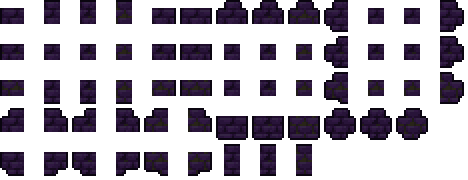
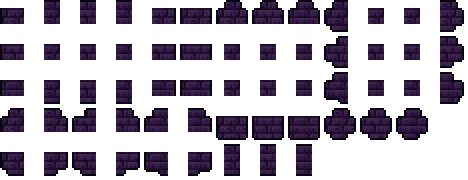
New nose temple brick sprites

diff --git a/Content/NPCs/Boss/SpookySpirit/SpookySpirit.cs b/Content/NPCs/Boss/SpookySpirit/SpookySpirit.cs
@@ -55,6 +55,7 @@ namespace Spooky.Content.NPCs.Boss.SpookySpirit
             new Color(148, 80, 0)
         };
 
+        private static Asset<Texture2D> NPCTexture;
         private static Asset<Texture2D> AuraTexture;
         private static Asset<Texture2D> EyeTexture1;
         private static Asset<Texture2D> EyeTexture2;
@@ -171,6 +172,7 @@ namespace Spooky.Content.NPCs.Boss.SpookySpirit
         public override bool PreDraw(SpriteBatch spriteBatch, Vector2 screenPos, Color drawColor)
         {
             //draw aura
+            NPCTexture ??= ModContent.Request<Texture2D>(Texture);
             AuraTexture ??= ModContent.Request<Texture2D>("Spooky/Content/NPCs/Boss/SpookySpirit/SpookySpiritAura");
 
             Vector2 drawOrigin = new(AuraTexture.Width() * 0.5f, NPC.height * 0.5f);
@@ -197,7 +199,7 @@ namespace Spooky.Content.NPCs.Boss.SpookySpirit
                 Color newColor = color;
                 newColor = NPC.GetAlpha(newColor);
                 newColor *= 1f;
-                Vector2 vector = new Vector2(NPC.Center.X - 1, NPC.Center.Y) + (numEffect / 2 * 6f + NPC.rotation + 0f).ToRotationVector2() - Main.screenPosition + new Vector2(0, NPC.gfxOffY + 4) * numEffect;
+                Vector2 vector = new Vector2(NPC.Center.X, NPC.Center.Y) + (numEffect / 2 * 6f + NPC.rotation + 0f).ToRotationVector2() - Main.screenPosition + new Vector2(0, NPC.gfxOffY + 4) * numEffect;
                 Main.EntitySpriteDraw(AuraTexture.Value, vector, NPC.frame, newColor, NPC.rotation, drawOrigin, NPC.scale * 1.035f, effects, 0);
             }
             

diff --git a/Content/NPCs/Boss/Orroboro/BoroBodyConnect.cs b/Content/NPCs/Boss/Orroboro/BoroBodyConnect.cs
@@ -2,13 +2,17 @@ using Terraria;
 using Terraria.ID;
 using Terraria.ModLoader;
 using Terraria.Audio;
+using ReLogic.Content;
 using Microsoft.Xna.Framework;
+using Microsoft.Xna.Framework.Graphics;
 using System;
 
 namespace Spooky.Content.NPCs.Boss.Orroboro
 {
     public class BoroBodyConnect : ModNPC
     {
+        private static Asset<Texture2D> NPCTexture;
+
         public static readonly SoundStyle HitSound = new("Spooky/Content/Sounds/EggEvent/EnemyHit", SoundType.Sound);
 
         public override void SetStaticDefaults()
@@ -56,6 +60,15 @@ namespace Spooky.Content.NPCs.Boss.Orroboro
                 NPC.frame.Y = 0;
             }
         }
+
+        public override bool PreDraw(SpriteBatch spriteBatch, Vector2 screenPos, Color drawColor)
+		{
+			NPCTexture ??= ModContent.Request<Texture2D>(Texture);
+
+			spriteBatch.Draw(NPCTexture.Value, NPC.Center - screenPos, NPC.frame, drawColor, NPC.rotation, NPC.frame.Size() / 2, NPC.scale, SpriteEffects.None, 0);
+
+			return false;
+		}
 
         public override bool PreAI()
         {   

diff --git a/Content/NPCs/Boss/Orroboro/OrroHeadP1.cs b/Content/NPCs/Boss/Orroboro/OrroHeadP1.cs
@@ -418,7 +418,7 @@ namespace Spooky.Content.NPCs.Boss.Orroboro
                     }
 
                     //turn around after vertically passing the player
-                    if (NPC.localAI[0] >= 90 && NPC.localAI[0] <= 145)
+                    if (NPC.localAI[0] >= 90 && NPC.localAI[0] <= 150)
                     {
                         double angle = NPC.DirectionTo(player.Center).ToRotation() - NPC.velocity.ToRotation();
                         while (angle > Math.PI)
@@ -439,12 +439,12 @@ namespace Spooky.Content.NPCs.Boss.Orroboro
                         NPC.velocity = NPC.velocity.RotatedBy(MathHelper.ToRadians(4.5f) * NPC.localAI[1]);
                     }
 
-                    if (NPC.localAI[0] > 145)
+                    if (NPC.localAI[0] > 150)
                     {
                         NPC.velocity *= 0.8f;
                     }
 
-                    if (NPC.localAI[0] > 150)
+                    if (NPC.localAI[0] > 160)
                     {
                         OpenMouth = false;
 

diff --git a/Content/Items/SpookyHell/Sentient/SentientBloodRainBow.cs b/Content/Items/SpookyHell/Sentient/SentientBloodRainBow.cs
@@ -14,7 +14,7 @@ namespace Spooky.Content.Items.SpookyHell.Sentient
     {
         public override void SetDefaults()
         {
-            Item.damage = 38;
+            Item.damage = 30;
 			Item.DamageType = DamageClass.Ranged;
 			Item.autoReuse = true;
             Item.width = 48;
